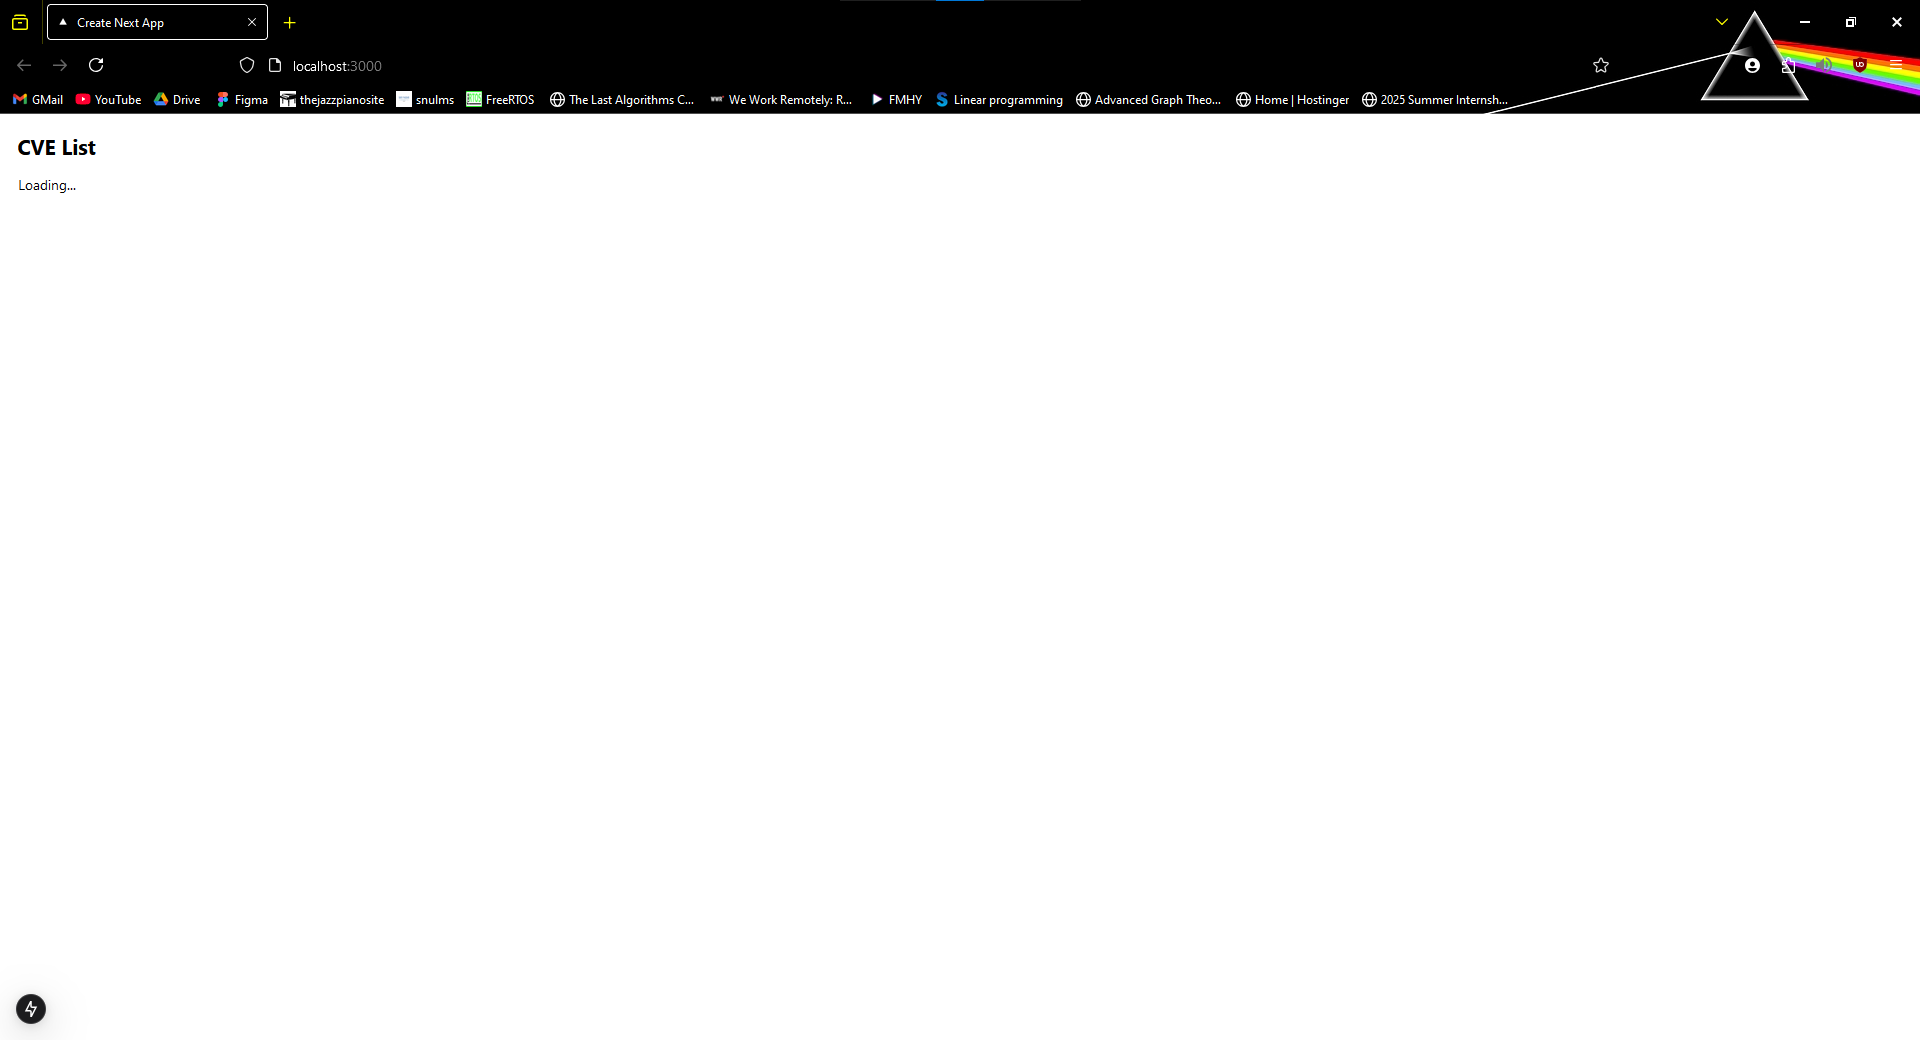
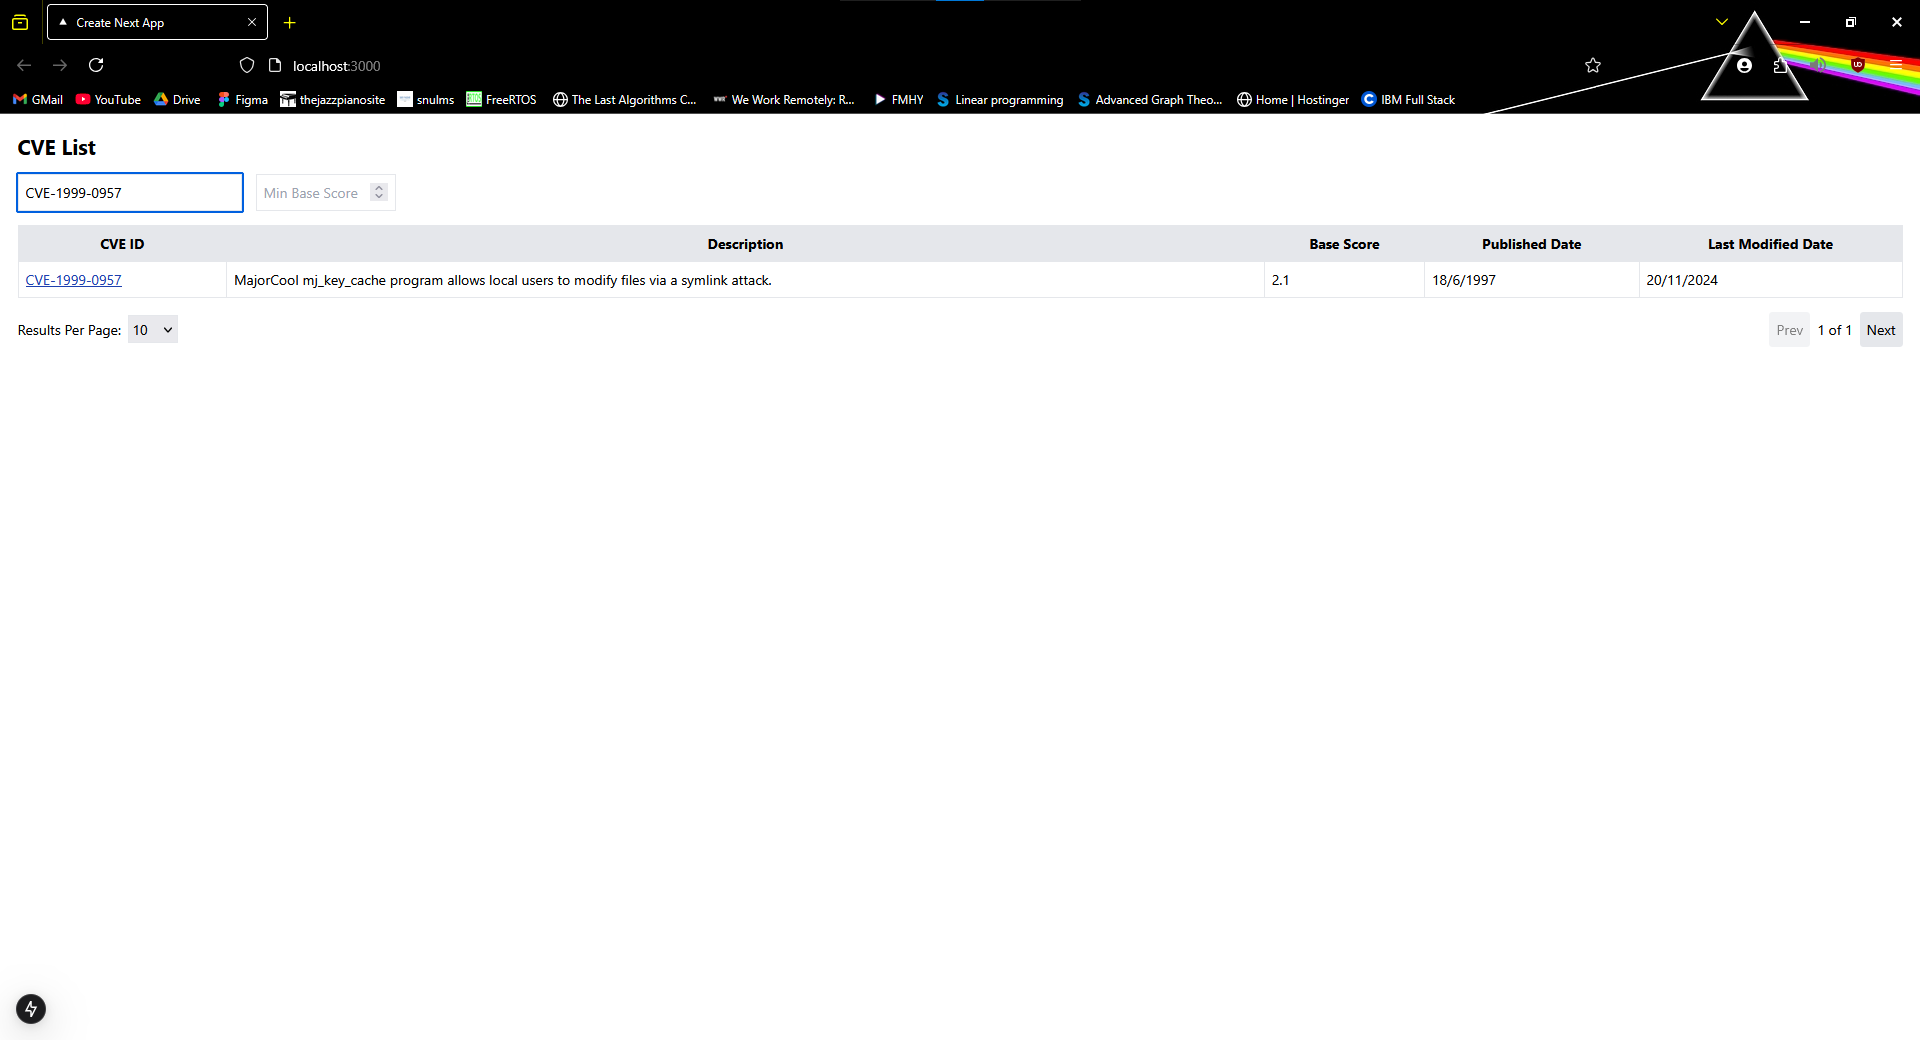
updated README.md

diff --git a/README.md b/README.md
@@ -59,22 +59,26 @@ cve_fullstack_app
 
 ## Screenshots
 
-1. `GET /api?page=1&perPage=10 200 in 2058ms`
+1. `GET /api?page=1&perPage=10&search=&minScore= 200 in 4522ms`
 
 ![10 rows](images/Pic1.png)
 
-2. `GET /api?page=6&perPage=100 200 in 192ms`
+2. `GET /api?page=3&perPage=100&search=&minScore= 200 in 241ms`
 
 ![100 rows](images/Pic2.png)
 
-3. `GET /api?page=13&perPage=100 200 in 21695ms`
+3. `GET /api?page=1&perPage=10&search=CVE-1999-0957&minScore= 200 in 79ms`
 
-![New records loading rows](images/Pic3.png)
+![ID Search](images/Pic3.png)
 
-4. `GET /api?page=13&perPage=100 200 in 21695ms`
+4. `GET /api?page=1&perPage=10&search=1999&minScore=8 200 in 122ms`
 
-![New rows](images/Pic4.png)
+![Year Search](images/Pic4.png)
 
-5. `GET /cves/CVE-2000-0356 200 in 1153ms`
+5. `GET /api?page=1&perPage=10&search=1999&minScore=7 200 in 86ms`
 
-![Dedicated Page](images/Pic5.png)
+![Score Filter](images/Pic5.png)
+
+6. `GET /api/cves/CVE-1999-1122 200 in 92ms`
+
+![Dedicated Page](images/Pic6.png)
